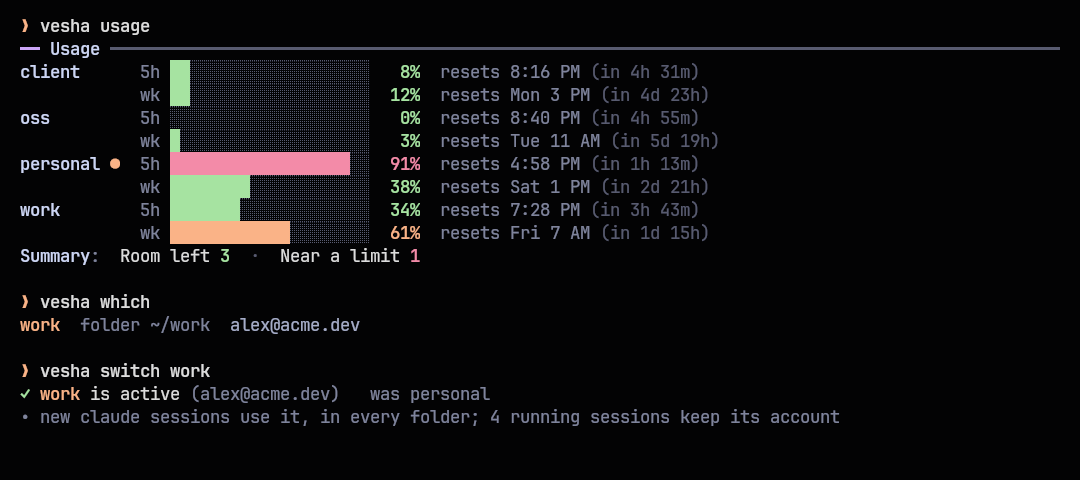
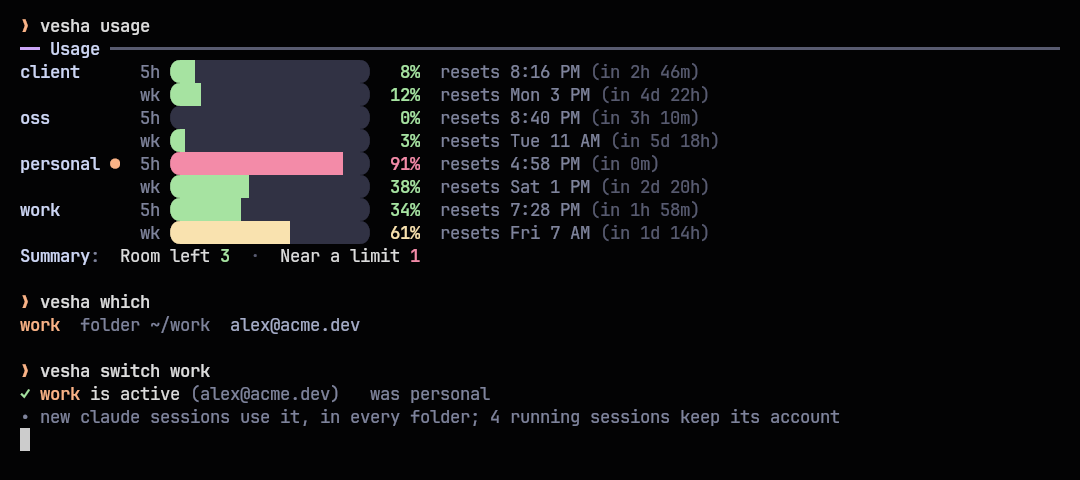
v0.2.2: pill usage bars, green → yellow → red

diff --git a/docs/changelog.html b/docs/changelog.html
@@ -19,8 +19,8 @@
 <a class="brand" href="index.html"><img src="assets/logo.svg" alt=""><span>vesha <small>वेष</small></span></a>
 <nav><a href="index.html" class="">Overview</a><a href="changelog.html" class="on">Changelog</a><a href="adr/index.html" class=" hide">Decisions</a><a class="gh" href="https://github.com/Theyashsawarkar/vesha">GitHub ↗</a></nav></div></header>
 
-<div class="wrap"><aside class="toc"><b>On this page</b><a class="l2" href="#v021">v0.2.1</a><a class="l2" href="#v020">v0.2.0</a><a class="l2" href="#v013">v0.1.3</a><a class="l2" href="#v012">v0.1.2</a><a class="l2" href="#v011">v0.1.1</a><a class="l2" href="#v010">v0.1.0</a></aside><article>
-<h2>Changelog</h2><p>Every change to vesha, newest first. Releases are git tags (<a href="https://github.com/Theyashsawarkar/vesha/tags">all tags</a>, <a href="https://github.com/Theyashsawarkar/vesha/releases">GitHub releases</a>); the source of this page is <a href="https://github.com/Theyashsawarkar/vesha/blob/main/CHANGELOG.md">CHANGELOG.md</a>.</p><section class="release"><h2 id="v021">v0.2.1<span class="date">2026-10-21</span><a class="tag" href="https://github.com/Theyashsawarkar/vesha/releases/tag/v0.2.1">release ↗</a></h2><ul><li><strong><code>vesha import cswap</code> restores a lost login</strong>: an account vesha has but that lost its login (e.g. after <code>vesha repair</code>) is signed back in from claude-swap's saved copy.</li><li><strong><code>h</code> / <code>l</code></strong> go to the accounts / folder rules tab (arrows too), and <code>Tab</code> reaches the folder rules tab even when there are none yet.</li><li><strong>Rounded capsules</strong> for the tabs, tags, mode and key hints, like the tmux bar.</li><li>Every switcher key is exercised end to end against a throwaway home.</li></ul></section><section class="release"><h2 id="v020">v0.2.0<span class="date">2026-10-21</span><a class="tag" href="https://github.com/Theyashsawarkar/vesha/releases/tag/v0.2.0">release ↗</a></h2><ul><li><strong>Sign in without leaving vesha</strong>: <code>a</code> in the switcher asks for a name and an email, opens Anthropic's sign-in page in your browser with the email filled in, and adds the account when you've entered the emailed code there; if the page shows a code, paste it into vesha. <code>Ctrl+o</code> reopens the page, <code>Ctrl+y</code> copies the link, <code>Esc</code> cancels and cleans up. <code>vesha add &lt;name&gt; &lt;email&gt;</code> does the same from a shell; <code>vesha login</code> fills in the account's email.</li><li><strong>A new look, like sangam</strong>: a tab strip (accounts, folder rules, the account a new claude uses here, auto-switching, <code>? keys</code>), the accounts in a rounded pane with column headers and a marker on the selected row, and an overview pane with usage, login, profile, folders and "what now". Stacks into one column on narrow terminals.</li><li>Fixed: the last column of the screen was never drawn; <code>doctor</code> no longer checks shared files of a profile that isn't made yet.</li></ul></section><section class="release"><h2 id="v013">v0.1.3<span class="date">2026-10-21</span><a class="tag" href="https://github.com/Theyashsawarkar/vesha/releases/tag/v0.1.3">release ↗</a></h2><ul><li><strong><code>vesha repair</code></strong>: when another tool replaced a profile's login (e.g. claude-swap wrote another account into <code>~/.claude</code>), two accounts showed the same usage under the wrong email. repair makes the records match the logins, moves the duplicate profile to vesha's trash folder, forgets the numbers cached under the wrong name, and says which account to sign in again. It shows the plan and asks first.</li><li><strong>The switcher flags it</strong>: a red "login changed" tag and a line saying who is really signed in; <code>vesha doctor</code> points to <code>vesha repair</code>.</li><li><strong><code>vesha login &lt;name&gt;</code></strong> tells you which account to pick, and refuses one that is already another account's.</li></ul></section><section class="release"><h2 id="v012">v0.1.2<span class="date">2026-10-21</span><a class="tag" href="https://github.com/Theyashsawarkar/vesha/releases/tag/v0.1.2">release ↗</a></h2><ul><li><strong>Catches logins changed behind vesha's back</strong>: <code>vesha doctor</code> says when a profile is now signed in to a different account than the one added (e.g. claude-swap or a <code>/login</code> changed <code>~/.claude</code>), and when two profiles hold a copy of the same login.</li><li><strong>Never renews a copied login</strong>: renewing one copy logs the other out (a running session, possibly), so vesha leaves it to Claude Code and says so.</li></ul></section><section class="release"><h2 id="v011">v0.1.1<span class="date">2026-10-21</span><a class="tag" href="https://github.com/Theyashsawarkar/vesha/releases/tag/v0.1.1">release ↗</a></h2><ul><li><strong>Accounts and profiles moved to <code>~/.local/state/vesha</code></strong>: v0.1.0 kept them in <code>~/.local/share/vesha</code>, where kosha and <code>install.sh</code> put vesha itself. They're moved on first run (not while a session runs on an old profile); installing or removing vesha never touches a login (ADR 8).</li><li><code>vesha service status</code> shows the watcher's last log lines.</li><li><code>vesha list</code> with no accounts yet is not an error (exit 0); <code>doctor</code> checks this home's watcher unit, not just systemd.</li><li>The switch note is accurate about folder rules and running sessions.</li></ul></section><section class="release"><h2 id="v010">v0.1.0<span class="date">2026-10-21</span><a class="tag" href="https://github.com/Theyashsawarkar/vesha/releases/tag/v0.1.0">release ↗</a></h2><p>The first release: every Claude Code account signed in at once, one key to switch, and automatic switching when the active one hits its limit.</p>
+<div class="wrap"><aside class="toc"><b>On this page</b><a class="l2" href="#v022">v0.2.2</a><a class="l2" href="#v021">v0.2.1</a><a class="l2" href="#v020">v0.2.0</a><a class="l2" href="#v013">v0.1.3</a><a class="l2" href="#v012">v0.1.2</a><a class="l2" href="#v011">v0.1.1</a><a class="l2" href="#v010">v0.1.0</a></aside><article>
+<h2>Changelog</h2><p>Every change to vesha, newest first. Releases are git tags (<a href="https://github.com/Theyashsawarkar/vesha/tags">all tags</a>, <a href="https://github.com/Theyashsawarkar/vesha/releases">GitHub releases</a>); the source of this page is <a href="https://github.com/Theyashsawarkar/vesha/blob/main/CHANGELOG.md">CHANGELOG.md</a>.</p><section class="release"><h2 id="v022">v0.2.2<span class="date">2026-10-21</span><a class="tag" href="https://github.com/Theyashsawarkar/vesha/releases/tag/v0.2.2">release ↗</a></h2><ul><li><strong>Better-looking usage bars</strong>, in the switcher and the CLI: rounded pills on a soft track, filled to an eighth of a cell, wider in the overview.</li><li><strong>Their colour follows what's used</strong>: green while there's plenty left, yellow from half, red from the warning level (<code>warn_at</code>, 85%). Plain <code>[####----]</code> bars without colour.</li></ul></section><section class="release"><h2 id="v021">v0.2.1<span class="date">2026-10-21</span><a class="tag" href="https://github.com/Theyashsawarkar/vesha/releases/tag/v0.2.1">release ↗</a></h2><ul><li><strong><code>vesha import cswap</code> restores a lost login</strong>: an account vesha has but that lost its login (e.g. after <code>vesha repair</code>) is signed back in from claude-swap's saved copy.</li><li><strong><code>h</code> / <code>l</code></strong> go to the accounts / folder rules tab (arrows too), and <code>Tab</code> reaches the folder rules tab even when there are none yet.</li><li><strong>Rounded capsules</strong> for the tabs, tags, mode and key hints, like the tmux bar.</li><li>Every switcher key is exercised end to end against a throwaway home.</li></ul></section><section class="release"><h2 id="v020">v0.2.0<span class="date">2026-10-21</span><a class="tag" href="https://github.com/Theyashsawarkar/vesha/releases/tag/v0.2.0">release ↗</a></h2><ul><li><strong>Sign in without leaving vesha</strong>: <code>a</code> in the switcher asks for a name and an email, opens Anthropic's sign-in page in your browser with the email filled in, and adds the account when you've entered the emailed code there; if the page shows a code, paste it into vesha. <code>Ctrl+o</code> reopens the page, <code>Ctrl+y</code> copies the link, <code>Esc</code> cancels and cleans up. <code>vesha add &lt;name&gt; &lt;email&gt;</code> does the same from a shell; <code>vesha login</code> fills in the account's email.</li><li><strong>A new look, like sangam</strong>: a tab strip (accounts, folder rules, the account a new claude uses here, auto-switching, <code>? keys</code>), the accounts in a rounded pane with column headers and a marker on the selected row, and an overview pane with usage, login, profile, folders and "what now". Stacks into one column on narrow terminals.</li><li>Fixed: the last column of the screen was never drawn; <code>doctor</code> no longer checks shared files of a profile that isn't made yet.</li></ul></section><section class="release"><h2 id="v013">v0.1.3<span class="date">2026-10-21</span><a class="tag" href="https://github.com/Theyashsawarkar/vesha/releases/tag/v0.1.3">release ↗</a></h2><ul><li><strong><code>vesha repair</code></strong>: when another tool replaced a profile's login (e.g. claude-swap wrote another account into <code>~/.claude</code>), two accounts showed the same usage under the wrong email. repair makes the records match the logins, moves the duplicate profile to vesha's trash folder, forgets the numbers cached under the wrong name, and says which account to sign in again. It shows the plan and asks first.</li><li><strong>The switcher flags it</strong>: a red "login changed" tag and a line saying who is really signed in; <code>vesha doctor</code> points to <code>vesha repair</code>.</li><li><strong><code>vesha login &lt;name&gt;</code></strong> tells you which account to pick, and refuses one that is already another account's.</li></ul></section><section class="release"><h2 id="v012">v0.1.2<span class="date">2026-10-21</span><a class="tag" href="https://github.com/Theyashsawarkar/vesha/releases/tag/v0.1.2">release ↗</a></h2><ul><li><strong>Catches logins changed behind vesha's back</strong>: <code>vesha doctor</code> says when a profile is now signed in to a different account than the one added (e.g. claude-swap or a <code>/login</code> changed <code>~/.claude</code>), and when two profiles hold a copy of the same login.</li><li><strong>Never renews a copied login</strong>: renewing one copy logs the other out (a running session, possibly), so vesha leaves it to Claude Code and says so.</li></ul></section><section class="release"><h2 id="v011">v0.1.1<span class="date">2026-10-21</span><a class="tag" href="https://github.com/Theyashsawarkar/vesha/releases/tag/v0.1.1">release ↗</a></h2><ul><li><strong>Accounts and profiles moved to <code>~/.local/state/vesha</code></strong>: v0.1.0 kept them in <code>~/.local/share/vesha</code>, where kosha and <code>install.sh</code> put vesha itself. They're moved on first run (not while a session runs on an old profile); installing or removing vesha never touches a login (ADR 8).</li><li><code>vesha service status</code> shows the watcher's last log lines.</li><li><code>vesha list</code> with no accounts yet is not an error (exit 0); <code>doctor</code> checks this home's watcher unit, not just systemd.</li><li>The switch note is accurate about folder rules and running sessions.</li></ul></section><section class="release"><h2 id="v010">v0.1.0<span class="date">2026-10-21</span><a class="tag" href="https://github.com/Theyashsawarkar/vesha/releases/tag/v0.1.0">release ↗</a></h2><p>The first release: every Claude Code account signed in at once, one key to switch, and automatic switching when the active one hits its limit.</p>
 <ul><li><strong>Profiles, not swaps</strong>: each account is its own Claude Code profile (<code>CLAUDE_CONFIG_DIR</code>); the account in <code>~/.claude</code> stays where it is. Switching never touches a login, and running sessions keep their account.</li><li><strong>Switch from anywhere</strong>: <code>vesha switch [name]</code> changes the account every new <code>claude</code> uses, in every folder and terminal, through a small <code>claude</code> wrapper (<code>vesha install-shim</code>). <code>vesha use</code> for one terminal, <code>vesha run</code> for one command, optional folder rules with <code>vesha map</code>.</li><li><strong>Automatic switching</strong>: <code>vesha service install</code> runs a watcher that warns at 85% of either limit (with a "Switch to …" button) and switches at 98% to the account with the most room, skipping paused and full ones. Each warning is shown once per limit window, even across restarts.</li><li><strong>The switcher</strong> (<code>vesha</code>): every account with its plan, 5-hour and weekly usage and reset times, tags for active / here / paused / running sessions, and the folder rules. Vim keys: <code>j</code>/<code>k</code>, <code>gg</code>/<code>G</code>, <code>Ctrl+d</code>/<code>Ctrl+u</code>, counts, <code>1-9</code>, <code>Tab</code>, <code>Enter</code>, <code>r</code>, <code>u</code>, <code>p</code>, <code>m</code>, <code>a</code>, <code>R</code>/<code>cw</code>, <code>dd</code>, <code>y</code>, <code>/</code> with <code>n</code>/<code>N</code>, and <code>?</code> for all of them. Adapts from 80 columns up.</li><li><strong>Shared setup and history</strong>: CLAUDE.md, settings, skills, plugins, agents, commands and history are linked from <code>~/.claude</code> into every profile, so <code>claude --continue</code> works across accounts.</li><li><strong>Usage everywhere</strong>: <code>vesha usage</code>, <code>vesha list</code> and a waybar module (<code>vesha waybar</code>) that redraws the moment the account changes.</li><li><strong>Logins stay safe</strong>: one copy of each login (Claude Code rotates them), tokens renewed in place only when Claude isn't running on that profile, files private to you, no token ever printed.</li><li><strong><code>vesha import cswap</code></strong> brings claude-swap's accounts across.</li><li><code>vesha doctor</code>, <code>vesha init zsh|bash</code> (shell hook and completion), <code>--json</code> output, help for every command, ruff, tests and a website with the changelog and design decisions.</li></ul></section>
 </article></div>
 <footer><div class="in"><div><h4>Desktop</h4><a href="https://theyashsawarkar.github.io/vayu/" class="">vayu <span>वायु · the keyboard-driven Wayland desktop</span></a></div><div><h4>Apps</h4><a href="https://theyashsawarkar.github.io/kosha/" class="">kosha <span>कोश · package manager</span></a><a href="https://theyashsawarkar.github.io/nada/" class="">nada <span>नाद · music player</span></a><a href="https://theyashsawarkar.github.io/sangam/" class="">sangam <span>संगम · pull requests in the terminal</span></a><a href="https://theyashsawarkar.github.io/anumati/" class="">anumati <span>अनुमति · root commands for AI agents</span></a><a href="https://theyashsawarkar.github.io/vesha/" class="me">vesha <span>वेष · Claude Code accounts</span></a></div><div><h4>Vyom</h4><a href="https://theyashsawarkar.github.io/vyom/" class="">vyom <span>व्योम · panels runtime</span></a></div><div><h4>Vyom tools</h4><a href="https://theyashsawarkar.github.io/dvara/" class="">dvara <span>द्वार · apps</span></a><a href="https://theyashsawarkar.github.io/ganit/" class="">ganit <span>गणित · calculator</span></a><a href="https://theyashsawarkar.github.io/smriti/" class="">smriti <span>स्मृति · clipboard</span></a><a href="https://theyashsawarkar.github.io/bhava/" class="">bhava <span>भाव · emoji</span></a><a href="https://theyashsawarkar.github.io/tarang/" class="">tarang <span>तरंग · Wi‑Fi</span></a><a href="https://theyashsawarkar.github.io/setu/" class="">setu <span>सेतु · Bluetooth</span></a><a href="https://theyashsawarkar.github.io/doot/" class="">doot <span>दूत · phone</span></a><a href="https://theyashsawarkar.github.io/patra/" class="">patra <span>पात्र · Docker</span></a><a href="https://theyashsawarkar.github.io/suchana/" class="">suchana <span>सूचना · notifications</span></a><a href="https://theyashsawarkar.github.io/raga/" class="">raga <span>राग · YouTube</span></a><a href="https://theyashsawarkar.github.io/mudra/" class="">mudra <span>मुद्रा · keybindings</span></a><a href="https://theyashsawarkar.github.io/urja/" class="">urja <span>ऊर्जा · battery</span></a><a href="https://theyashsawarkar.github.io/vishram/" class="">vishram <span>विश्राम · power menu</span></a><a href="https://theyashsawarkar.github.io/kendra/" class="">kendra <span>केन्द्र · quick settings</span></a></div></div>

diff --git a/docs/index.html b/docs/index.html
@@ -24,8 +24,8 @@
 <div class="sa">वेष <span>· “guise”</span></div>
 <p class="lead">Every Claude Code account, one key away: switch from anywhere, and switch by itself at the limit.</p>
 <div class="cta"><a class="btn primary" href="#install">Install</a><a class="btn" href="https://github.com/Theyashsawarkar/vesha">GitHub ↗</a>
-<a class="btn" href="changelog.html">What's new in v0.2.1</a></div>
-<div class="meta"><span><b>v0.2.1</b> latest</span><span><b>6</b> releases</span><span><b>8</b> decisions recorded</span><span><b>MIT</b> license</span></div>
+<a class="btn" href="changelog.html">What's new in v0.2.2</a></div>
+<div class="meta"><span><b>v0.2.2</b> latest</span><span><b>7</b> releases</span><span><b>8</b> decisions recorded</span><span><b>MIT</b> license</span></div>
 </div><img class="logo" src="assets/logo.svg" alt="vesha logo"></div></section>
 <div class="wrap"><aside class="toc"><b>On this page</b><a class="l2" href="#features">Features</a><a class="l2" href="#install">Install</a><a class="l2" href="#getting-started">Getting started</a><a class="l2" href="#the-switcher">The switcher</a><a class="l3" href="#signing-in-a-new-account">Signing in a new account</a><a class="l2" href="#commands">Commands</a><a class="l2" href="#automatic-switching">Automatic switching</a><a class="l2" href="#which-account-a-new-claude-uses">Which account a new claude uses</a><a class="l2" href="#configuration">Configuration</a><a class="l2" href="#integrations">Integrations</a><a class="l2" href="#how-it-works">How it works</a><a class="l2" href="#coming-from-claude-swap">Coming from claude-swap</a><a class="l2" href="#troubleshooting">Troubleshooting</a><a class="l2" href="#contributing">Contributing</a><a class="l2" href="#license">License</a></aside><article>
 <blockquote><p><em>Vesha</em> (वेष) is Sanskrit for "guise, attire": the same Claude, wearing whichever account you choose.</p></blockquote>
@@ -34,7 +34,7 @@
   <img alt="The switcher: tabs for accounts and folder rules on top; four accounts on the left with email, plan, 5-hour and weekly usage; the selected account's overview on the right with usage and reset times, login, profile, folders and what you can do" src="assets/screenshots/switcher.png" width="100%">
 </p>
 <h2 id="features"><a class="anchor" href="#features">#</a>Features</h2>
-<ul><li><strong>Every account signed in at once</strong>: each account is its own Claude Code profile; switching never signs anything out, and sessions already running keep going on their account.</li><li><strong>Switch from anywhere</strong>: <code>vesha switch work</code> (or one key in the switcher) changes the account every new <code>claude</code> uses, in every folder and every terminal. No restart, no re-login.</li><li><strong>Automatic switching at the limit</strong>: a small background watcher warns you near the limit (with a "Switch to …" button on the notification) and switches by itself when the active account runs out, to the account with the most room left.</li><li><strong>Limits at a glance</strong>: 5-hour and weekly usage for every account, with the time each resets, in the switcher, <code>vesha usage</code>, and your status bar.</li><li><strong>Vim keys throughout</strong>: <code>j</code>/<code>k</code>, <code>gg</code>/<code>G</code>, counts, <code>/</code> search, <code>dd</code>, <code>cw</code>, <code>?</code> for every key.</li><li><strong>One setup, every account</strong>: your CLAUDE.md, settings, skills, plugins, agents and commands are shared by every account, and so is your history, so <code>claude --resume</code> finds a conversation whichever account started it.</li><li><strong>Optional folder rules</strong>: <code>vesha map client ~/code/northwind</code> and that folder (and everything under it) always uses that account.</li><li><strong>This terminal only</strong>: <code>vesha use oss</code> switches just the current shell; <code>vesha run work -- claude -p &quot;...&quot;</code> runs one command as another account.</li><li><strong>Imports claude-swap</strong>: <code>vesha import cswap</code> brings its accounts across.</li><li><strong>Safe with your logins</strong>: only one copy of each login ever exists (Claude Code rotates them; copies would log each other out), files are private to you, and no token is ever printed.</li><li><strong>No dependencies</strong> beyond Python 3.11's standard library.</li></ul>
+<ul><li><strong>Every account signed in at once</strong>: each account is its own Claude Code profile; switching never signs anything out, and sessions already running keep going on their account.</li><li><strong>Switch from anywhere</strong>: <code>vesha switch work</code> (or one key in the switcher) changes the account every new <code>claude</code> uses, in every folder and every terminal. No restart, no re-login.</li><li><strong>Automatic switching at the limit</strong>: a small background watcher warns you near the limit (with a "Switch to …" button on the notification) and switches by itself when the active account runs out, to the account with the most room left.</li><li><strong>Limits at a glance</strong>: 5-hour and weekly usage for every account, with the time each resets, in the switcher, <code>vesha usage</code>, and your status bar; the bars go green, then yellow from half, then red near the limit.</li><li><strong>Vim keys throughout</strong>: <code>j</code>/<code>k</code>, <code>gg</code>/<code>G</code>, counts, <code>/</code> search, <code>dd</code>, <code>cw</code>, <code>?</code> for every key.</li><li><strong>One setup, every account</strong>: your CLAUDE.md, settings, skills, plugins, agents and commands are shared by every account, and so is your history, so <code>claude --resume</code> finds a conversation whichever account started it.</li><li><strong>Optional folder rules</strong>: <code>vesha map client ~/code/northwind</code> and that folder (and everything under it) always uses that account.</li><li><strong>This terminal only</strong>: <code>vesha use oss</code> switches just the current shell; <code>vesha run work -- claude -p &quot;...&quot;</code> runs one command as another account.</li><li><strong>Imports claude-swap</strong>: <code>vesha import cswap</code> brings its accounts across.</li><li><strong>Safe with your logins</strong>: only one copy of each login ever exists (Claude Code rotates them; copies would log each other out), files are private to you, and no token is ever printed.</li><li><strong>No dependencies</strong> beyond Python 3.11's standard library.</li></ul>
 <h2 id="install"><a class="anchor" href="#install">#</a>Install</h2>
 <p>With <a href="https://github.com/Theyashsawarkar/kosha">kosha</a>:</p>
 <pre class="code" data-lang="sh"><code>kosha install vesha</code></pre>

diff --git a/vesha/tui.py b/vesha/tui.py
@@ -157,6 +157,11 @@ class App:
             pairs["cap_" + name] = n   # the rounded ends: the chip's colour on the background
             curses.init_pair(n, self.cp[bgc], bg)
             n += 1
+        for fg in ("green", "yellow", "red", "surface"):   # pill bars: fill on the track, rounded ends
+            for name, bgc in (("bar_", self.cp["surface"]), ("edge_", bg), ("sedge_", self.cp["selbg"])):
+                pairs[name + fg] = n
+                curses.init_pair(n, self.cp[fg], bgc)
+                n += 1
         self.pairs = pairs
 
     def a(self, name, bold=False, sel=False):
@@ -213,11 +218,18 @@ class App:
         self.put(y, x2 + 1, "─" * max(0, x + w - x2 - 2), self.a("faint"))
 
     def bar(self, y, x, pct, width, sel=False):
+        """A pill: rounded ends, a soft track, the fill drawn to an eighth of a cell."""
         pct = max(0, min(100, pct))
-        fill = round(width * pct / 100)
-        color = "red" if pct >= core.config()["warn_at"] else "peach" if pct >= 60 else "green"
-        self.put(y, x, "▪" * fill, self.a(color, sel=sel))
-        self.put(y, x + fill, "▪" * (width - fill), self.a("faint", sel=sel))
+        color = "red" if pct >= core.config()["warn_at"] else "yellow" if pct >= 50 else "green"   # used up: green → yellow → red
+        inner = max(1, width - 2)
+        eighths = round(inner * 8 * pct / 100)
+        edge = "sedge_" if sel else "edge_"
+        cp = curses.color_pair
+        self.put(y, x, "\ue0b6", cp(self.pairs[edge + (color if eighths else "surface")]))
+        for i in range(inner):
+            part = max(0, min(8, eighths - i * 8))
+            self.put(y, x + 1 + i, "█" if part == 8 else " ▏▎▍▌▋▊▉"[part], cp(self.pairs["bar_" + color]))
+        self.put(y, x + 1 + inner, "\ue0b4", cp(self.pairs[edge + (color if eighths >= inner * 8 else "surface")]))
         return color
 
     def chip(self, y, x, text, kind, pair=None):
@@ -293,7 +305,7 @@ class App:
         inner = w - 4
         week = inner >= 64
         name_w = max(10, min(16, max(len(n) for n in names) + 1))
-        use_w = 13   # "▪▪▪▪▪▪ 100%"
+        use_w = 14   # a pill of 8, then " 100%"
         email_w = max(8, inner - 6 - name_w - 10 - use_w * (2 if week else 1) - 1)
         cx = {"i": x + 3, "name": x + 8, "email": x + 8 + name_w, "plan": x + 8 + name_w + email_w + 1}
         cx["h5"] = cx["plan"] + 10
@@ -328,8 +340,8 @@ class App:
                     if key in u:
                         col = cx["h5" if key == "five_hour" else "wk"]
                         p = u[key]["pct"]
-                        color = self.bar(ry, col, p, 6, sel)
-                        self.put(ry, col + 7, f"{p:>3}%", self.a(color, True, sel))
+                        color = self.bar(ry, col, p, 8, sel)
+                        self.put(ry, col + 9, f"{p:>3}%", self.a(color, True, sel))
             elif u is not None:
                 self.put(ry, cx["h5"], ("no login" if "sign" in str(u) or "login" in str(u) else "couldn't check")[: use_w * 2],
                          self.a("yellow", sel=sel))
@@ -386,7 +398,7 @@ class App:
             cy += 1
             u = self.use.get(n)
             if isinstance(u, dict):
-                bw = max(6, min(16, iw - 44))
+                bw = max(10, min(24, iw - 36))
                 for key, label in (("five_hour", "5 hours"), ("seven_day", "week")):
                     if key in u:
                         p = u[key]["pct"]

diff --git a/vesha/cli.py b/vesha/cli.py
@@ -178,13 +178,29 @@ def need(st, name):
 
 
 def badge_color(pct):
-    return "red" if pct >= core.config()["warn_at"] else "peach" if pct >= 60 else "green"
+    """Green while there's plenty left, yellow from half, red from the warning level."""
+    return "red" if pct >= core.config()["warn_at"] else "yellow" if pct >= 50 else "green"
+
+
+TRACK = (49, 50, 68)   # Catppuccin surface0: the empty part of a bar
 
 
 def bar(pct, width=20):
+    """A pill, like the switcher's: rounded ends, a soft track, the fill drawn
+    to an eighth of a cell. Plain `[####----]` without colour."""
     pct = max(0, min(100, int(pct)))
-    fill = round(width * pct / 100)
-    return c("█" * fill, badge_color(pct)) + c("░" * (width - fill), "faint")
+    inner = max(1, width - 2)
+    eighths = round(inner * 8 * pct / 100)
+    if not ui.TTY:
+        fill = round(inner * pct / 100)
+        return "[" + "#" * fill + "-" * (inner - fill) + "]"
+    r, g, b = ui._COLORS[badge_color(pct)]
+    fg, track = f"38;2;{r};{g};{b}", "48;2;{};{};{}".format(*TRACK)
+    tfg = "38;2;{};{};{}".format(*TRACK)
+    cells = "".join("█" if (part := max(0, min(8, eighths - i * 8))) == 8 else " ▏▎▍▌▋▊▉"[part] for i in range(inner))
+    left = fg if eighths else tfg
+    right = fg if eighths >= inner * 8 else tfg
+    return f"\033[{left}m\ue0b6\033[0m\033[{fg};{track}m{cells}\033[0m\033[{right}m\ue0b4\033[0m"
 
 
 def usage_cell(u, key="five_hour", w=10):

diff --git a/vesha/__init__.py b/vesha/__init__.py
@@ -1,2 +1,2 @@
 """vesha (वेष, "guise"): every Claude Code account, one key away."""
-VERSION = "0.2.1"
+VERSION = "0.2.2"

diff --git a/README.md b/README.md
@@ -64,7 +64,8 @@ room left and tells you.
   switches by itself when the active account runs out, to the account with
   the most room left.
 - **Limits at a glance**: 5-hour and weekly usage for every account, with
-  the time each resets, in the switcher, `vesha usage`, and your status bar.
+  the time each resets, in the switcher, `vesha usage`, and your status bar;
+  the bars go green, then yellow from half, then red near the limit.
 - **Vim keys throughout**: `j`/`k`, `gg`/`G`, counts, `/` search, `dd`,
   `cw`, `?` for every key.
 - **One setup, every account**: your CLAUDE.md, settings, skills, plugins,

diff --git a/CHANGELOG.md b/CHANGELOG.md
@@ -2,6 +2,14 @@
 
 Newest first. Releases are tags (`vX.Y.Z`) with `VERSION` in `vesha/__init__.py`.
 
+## v0.2.2 -- 2026-10-21
+
+- **Better-looking usage bars**, in the switcher and the CLI: rounded pills
+  on a soft track, filled to an eighth of a cell, wider in the overview.
+- **Their colour follows what's used**: green while there's plenty left,
+  yellow from half, red from the warning level (`warn_at`, 85%). Plain
+  `[####----]` bars without colour.
+
 ## v0.2.1 -- 2026-10-21
 
 - **`vesha import cswap` restores a lost login**: an account vesha has but
